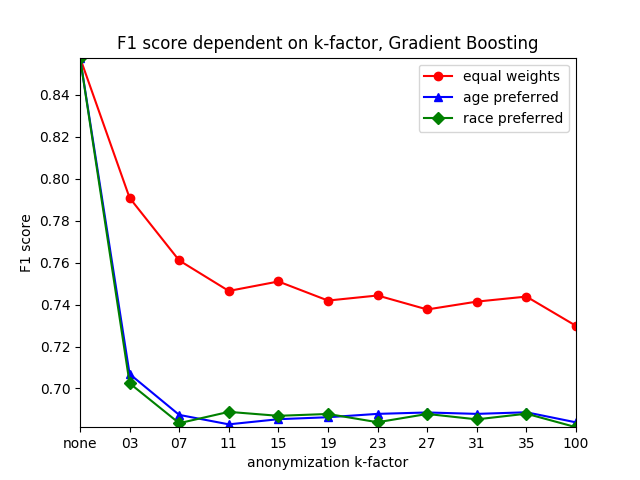
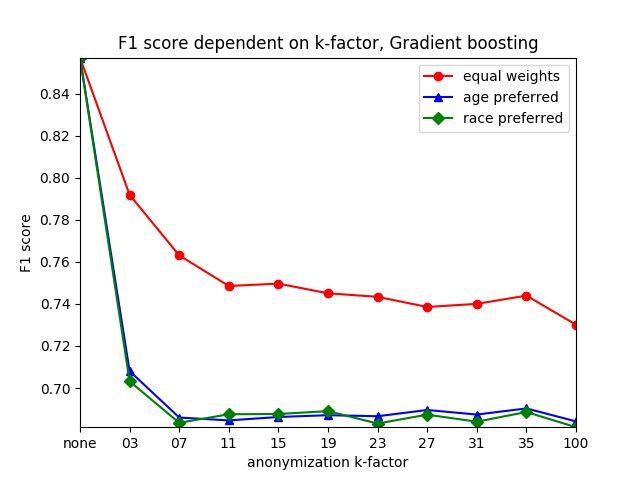
re-calculated gradient boosting on marital-status with scaled attributes - no change...

diff --git a/src/binary_class/plotting.py b/src/binary_class/plotting.py
@@ -78,7 +78,7 @@ def plotAnonymizationResults(results):
   rect = fig.patch
   rect.set_facecolor('white')
 
-  title_algo = "Random Forest"
+  title_algo = "Gradient boosting"
   plt.title("F1 score dependent on k-factor, %s" % (title_algo) )
 
   equal_line, = plt.plot(equal_line_f1, marker='o', linestyle='-', color='r', label="equal weights")
@@ -199,7 +199,7 @@ if __name__ == "__main__":
   algorithm = "random_forest"
   target = "education_num"
 
-  results = readResultsIntoHash(random_forest_file)
+  results = readResultsIntoHash(gradient_boost_file)
   plotAnonymizationResults(results)
   # plotPerturbationResultsTop3(results)
   # plotPerturbationResultsBottom3(results)
